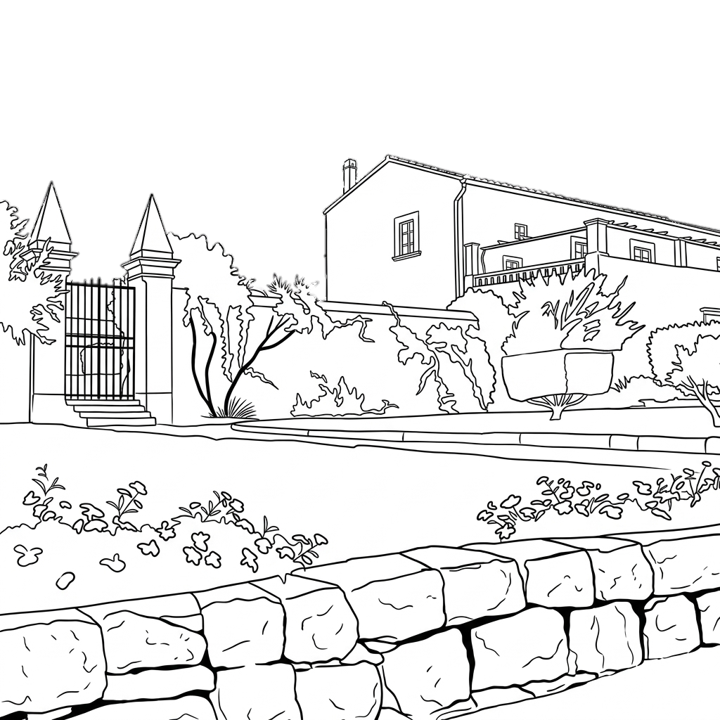
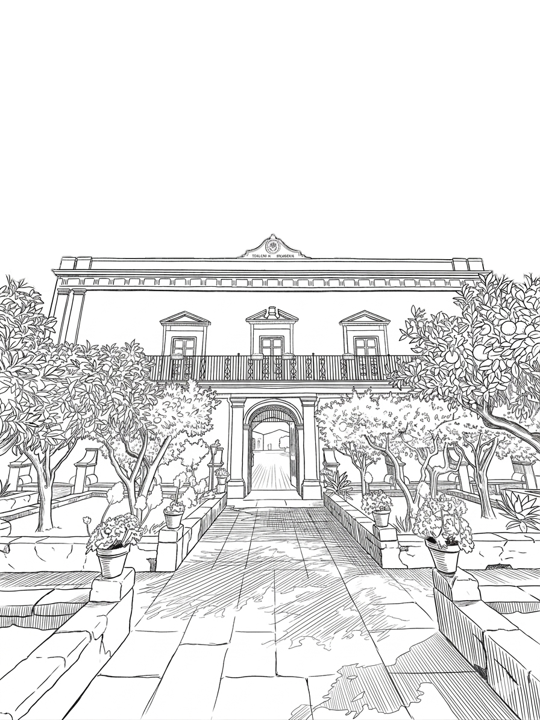
2

diff --git a/programma.html b/programma.html
@@ -5,6 +5,9 @@
   <meta charset="UTF-8" />
   <meta name="viewport" content="width=device-width, initial-scale=1.0" />
   <title>Programma - Glo e Andre si sposano</title>
+  <link rel="preconnect" href="https://fonts.googleapis.com" />
+  <link rel="preconnect" href="https://fonts.gstatic.com" crossorigin />
+  <link href="https://fonts.googleapis.com/css2?family=Lato:wght@300;400;700&display=swap" rel="stylesheet" />
   <link rel="stylesheet" href="css/style.css" />
   <style>
     /* Stili per i bottoni travel */
@@ -201,8 +204,8 @@
               style="width: 250px; height: 250px; object-fit: cover; border-radius: 8px;">
           </div>
           <div class="program-content" style="max-width: 400px; margin: 0 auto;">
-            <h2 style="font-family: '3ds Light', sans-serif;">Cerimonia</h2>
-            <h3 style="font-family: '3ds Light', sans-serif;">Duomo di San Pietro</h3>
+            <h2 style="font-family: 'Lato', sans-serif; font-weight: 700;">Cerimonia</h2>
+            <h3 style="font-family: 'Lato', sans-serif; font-weight: 300;">Duomo di San Pietro</h3>
             <p style="font-family: 'Yu Gothic Light', sans-serif;">Si dice che salire quegli scalini sia il primo test
               di resistenza per il matrimonio... noi siamo pronti
               alla scalata, e voi?! La scalinata è uno spettacolo, sorvegliata dalle imponenti statue dei dodici
@@ -219,8 +222,8 @@
               style="width: 250px; height: 250px; object-fit: cover; border-radius: 8px;">
           </div>
           <div class="program-content" style="max-width: 400px; margin: 0 auto;">
-            <h2 style="font-family: '3ds Light', sans-serif;">Ricevimento</h2>
-            <h3 style="font-family: '3ds Light', sans-serif;">Villa Gisana</h3>
+            <h2 style="font-family: 'Lato', sans-serif; font-weight: 700;">Ricevimento</h2>
+            <h3 style="font-family: 'Lato', sans-serif; font-weight: 300;">Villa Gisana</h3>
             <p style="font-family: 'Yu Gothic Light', sans-serif;">Villa Gisana è una splendida dimora storica situata
               nelle campagne di Modica, un antico casale del XVIII
               secolo. Preparatevi a ballare, brindare e festeggiare con noi fino a tardi! (e ovviamente anche a
@@ -237,7 +240,7 @@
               style="width: 250px; height: 250px; object-fit: cover; border-radius: 8px;">
           </div>
           <div class="program-content" style="max-width: 400px; margin: 0 auto;">
-            <h2 style="font-family: '3ds Light', sans-serif;">Dress Code</h2>
+            <h2 style="font-family: 'Lato', sans-serif; font-weight: 700;">Dress Code</h2>
             <p style="font-family: 'Yu Gothic Light', sans-serif;">Per un giorno lasciamo il bianco alla sposa e il
               nero... dentro nell'armadio! Vi vogliamo belli colorati, brillanti, tanto in fondo è una festa no?
               Scegliete tra i vostri colori preferiti (tranne il bianco e il nero, promesso??? Se no, chi la sente a Glo

diff --git a/css/style.css b/css/style.css
@@ -657,18 +657,38 @@ body.scroll-locked {
     width: min(280px, 90vw);
   }
 
+  .program-page-content {
+    padding-left: 0.5rem;
+    padding-right: 0.5rem;
+    flex-direction: column;
+    padding-top: 1rem;
+  }
+
   .program-page-content .program-section {
-    margin: 12px 10px 30px !important;
+    margin: 12px 0 30px !important;
+    width: 100%;
   }
 
   .program-page-content .program-section .section-icon {
-    width: 180px !important;
-    height: 180px !important;
+    width: 200px !important;
+    height: 200px !important;
   }
 
   .program-page-content .program-content {
     max-width: 100% !important;
-    padding: 0 10px;
+    padding: 0 15px;
+  }
+
+  .program-page-content .program-content h2 {
+    font-size: 1.5rem;
+  }
+
+  .program-page-content .program-content h3 {
+    font-size: 1.2rem;
+  }
+
+  .program-page-content .program-content p {
+    font-size: 0.95rem;
   }
 
   /* Gallery mobile */
@@ -701,13 +721,37 @@ body.scroll-locked {
   }
 
   /* Programma extra small */
+  .program-page-content {
+    padding-left: 0.25rem;
+    padding-right: 0.25rem;
+    flex-direction: column;
+    padding-top: 0.75rem;
+  }
+
   .program-page-content .program-section {
-    margin: 12px 5px 25px !important;
+    margin: 10px 0 25px !important;
   }
 
   .program-page-content .program-section .section-icon {
-    width: 150px !important;
-    height: 150px !important;
+    width: 160px !important;
+    height: 160px !important;
+  }
+
+  .program-page-content .program-content {
+    padding: 0 10px;
+  }
+
+  .program-page-content .program-content h2 {
+    font-size: 1.3rem;
+  }
+
+  .program-page-content .program-content h3 {
+    font-size: 1.05rem;
+  }
+
+  .program-page-content .program-content p {
+    font-size: 0.85rem;
+    line-height: 1.5;
   }
 
   .program-title-image {
